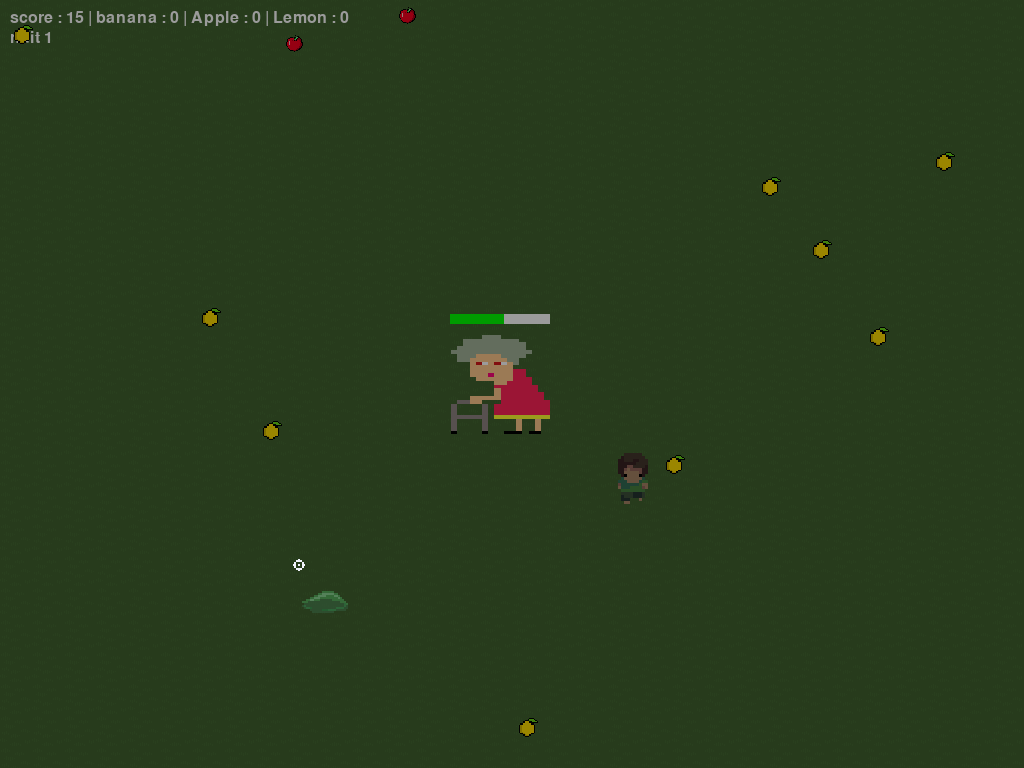
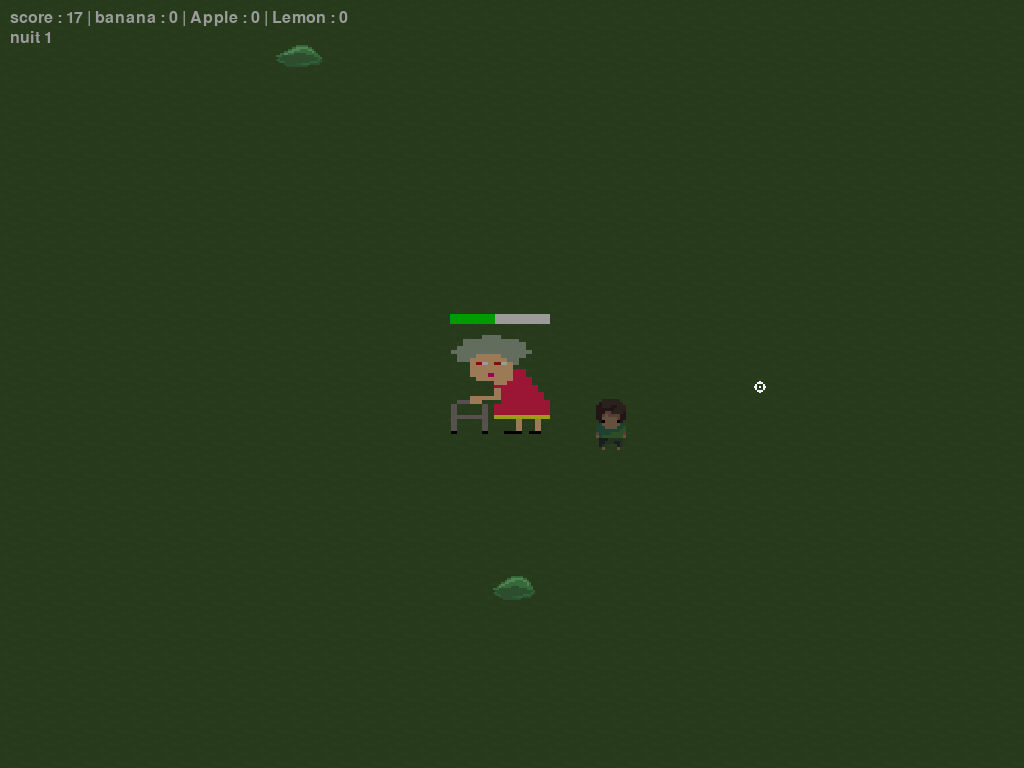
possibilité de restart et quitter

diff --git a/gamejam_project/gamejam_project/main.py b/gamejam_project/gamejam_project/main.py
@@ -254,6 +254,8 @@ if __name__ == '__main__':
                 enemies.clear()
                 fruits.clear()
                 bullets.clear()
+                cycle.day = True
+                cycle.night = False
 
             if keys[pygame.K_e]:  # q pressed (for exit)
                 perdu = False
